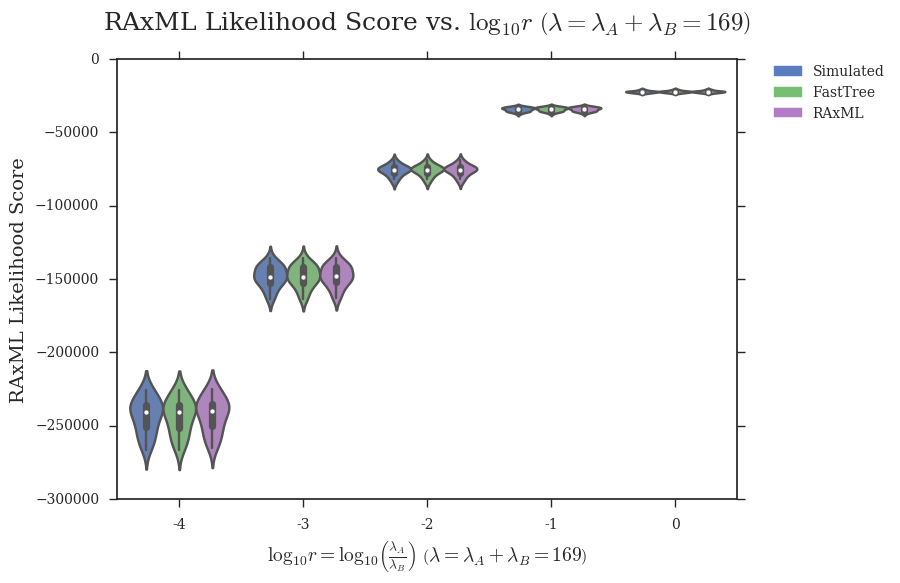
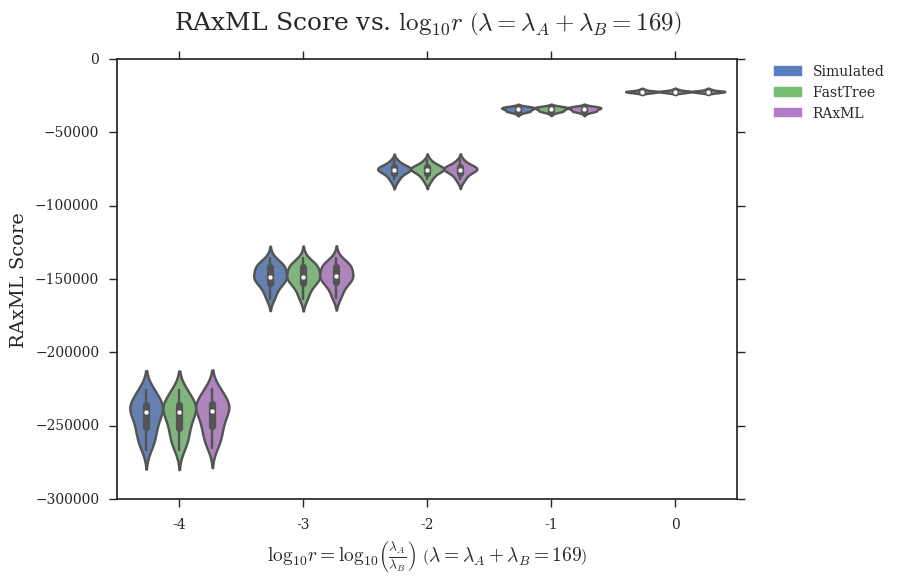
Changed "RAxML Likelihood Score" to "RAxML Score"

Changed region(s): [[0.0933, 0.0, 0.84, 0.0617], [0.0, 0.2779, 0.0311, 0.7101]]

diff --git a/figures/scripts/5_raxml-likelihood-vs-parameters.py b/figures/scripts/5_raxml-likelihood-vs-parameters.py
@@ -2,7 +2,7 @@
 '''
 Niema Moshiri 2016
 
-Generate plots of RAxML Likelihood Score vs. various parameters
+Generate plots of RAxML Score vs. various parameters
 '''
 # imports
 from matplotlib import rcParams
@@ -195,7 +195,7 @@ g_raxml    = {'gammarate':np.array([2.952]*20+[5.904]*20+[29.518]*20+[147.591]*2
              ).astype(float)}
 '''
 
-# plot RAxML Likelihood Score vs. r (with different lambda = lambdaA+lambdaB to keep expected branch length constant)
+# plot RAxML Score vs. r (with different lambda = lambdaA+lambdaB to keep expected branch length constant)
 fig = plt.figure()
 x = np.array([-4,-3,-2,-1,0])
 df = {'r':{},'score':{},'category':{}}
@@ -216,13 +216,13 @@ df = pd.DataFrame(df)
 ax = sns.violinplot(x='r',y='score',hue='category',data=df,order=x,palette=pal)
 legend = plt.legend(handles=handles,bbox_to_anchor=(1.05, 1), loc=2, borderaxespad=0.)
 sns.plt.xlabel(r'$\log_{10}{r} = \log_{10}{\left(\frac{\lambda_A}{\lambda_B}\right)}\ \left(E(l_b)=0.298\right)$',fontsize=14)
-sns.plt.ylabel('RAxML Likelihood Score',fontsize=14)
-sns.plt.title(r'RAxML Likelihood Score vs. $\log_{10}{r}\ \left(E(l_b)=0.298\right)$',fontsize=18,y=1.05)
+sns.plt.ylabel('RAxML Score',fontsize=14)
+sns.plt.title(r'RAxML Score vs. $\log_{10}{r}\ \left(E(l_b)=0.298\right)$',fontsize=18,y=1.05)
 sns.plt.show()
 fig.savefig('raxml-likelihood_vs_r_const-exp-branch-length.png', bbox_inches='tight')
 plt.close()
 
-# plot RAxML Likelihood Score vs. r (with constant lambda = lambdaA + lambdaB)
+# plot RAxML Score vs. r (with constant lambda = lambdaA + lambdaB)
 fig = plt.figure()
 x = np.array([-4,-3,-2,-1,0])
 df = {'r':{},'score':{},'category':{}}
@@ -243,13 +243,13 @@ df = pd.DataFrame(df)
 ax = sns.violinplot(x='r',y='score',hue='category',data=df,order=x,palette=pal)
 legend = plt.legend(handles=handles,bbox_to_anchor=(1.05, 1), loc=2, borderaxespad=0.)
 sns.plt.xlabel(r'$\log_{10}{r} = \log_{10}{\left(\frac{\lambda_A}{\lambda_B}\right)}\ \left(\lambda = \lambda_A + \lambda_B = 169\right)$',fontsize=14)
-sns.plt.ylabel('RAxML Likelihood Score',fontsize=14)
-sns.plt.title(r'RAxML Likelihood Score vs. $\log_{10}{r}\ \left(\lambda=\lambda_A+\lambda_B=169\right)$',fontsize=18,y=1.05)
+sns.plt.ylabel('RAxML Score',fontsize=14)
+sns.plt.title(r'RAxML Score vs. $\log_{10}{r}\ \left(\lambda=\lambda_A+\lambda_B=169\right)$',fontsize=18,y=1.05)
 sns.plt.show()
 fig.savefig('raxml-likelihood_vs_r_const-lambda.png', bbox_inches='tight')
 plt.close()
 
-# plot RAxML Likelihood Score vs. lambda
+# plot RAxML Score vs. lambda
 fig = plt.figure()
 x = np.array([33.866,84.664,169.328,338.655,846.638])
 df = {'lambda':{},'score':{},'category':{}}
@@ -270,13 +270,13 @@ df = pd.DataFrame(df)
 ax = sns.violinplot(x='lambda',y='score',hue='category',data=df,order=x,palette=pal)
 legend = plt.legend(handles=handles,bbox_to_anchor=(1.05, 1), loc=2, borderaxespad=0.)
 sns.plt.xlabel(r'$\lambda = \lambda_A + \lambda_B$',fontsize=14)
-sns.plt.ylabel('RAxML Likelihood Score',fontsize=14)
-sns.plt.title(r'RAxML Likelihood Score vs. $\lambda$',fontsize=18,y=1.05)
+sns.plt.ylabel('RAxML Score',fontsize=14)
+sns.plt.title(r'RAxML Score vs. $\lambda$',fontsize=18,y=1.05)
 sns.plt.show()
 fig.savefig('raxml-likelihood_vs_lambda.png', bbox_inches='tight')
 plt.close()
 
-# plot RAxML Likelihood Score vs. length
+# plot RAxML Score vs. length
 fig = plt.figure()
 x = np.array([50,100,200,300,600,1200,2400,4800])
 df = {'length':{},'score':{},'category':{}}
@@ -297,13 +297,13 @@ df = pd.DataFrame(df)
 ax = sns.violinplot(x='length',y='score',hue='category',data=df,order=x,palette=pal)
 legend = plt.legend(handles=handles,bbox_to_anchor=(1.05, 1), loc=2, borderaxespad=0.)
 sns.plt.xlabel('Sequence Length',fontsize=14)
-sns.plt.ylabel('RAxML Likelihood Score',fontsize=14)
-sns.plt.title('RAxML Likelihood Score vs. Sequence Length',fontsize=18,y=1.05)
+sns.plt.ylabel('RAxML Score',fontsize=14)
+sns.plt.title('RAxML Score vs. Sequence Length',fontsize=18,y=1.05)
 sns.plt.show()
 fig.savefig('raxml-likelihood_vs_length.png', bbox_inches='tight')
 plt.close()
 
-# plot RAxML Likelihood Score vs. gamma rate
+# plot RAxML Score vs. gamma rate
 fig = plt.figure()
 x = np.array([2.952,5.904,29.518,147.591,295.182,float('inf')])
 df = {'gammarate':{},'score':{},'category':{}}
@@ -324,8 +324,8 @@ df = pd.DataFrame(df)
 ax = sns.violinplot(x='gammarate',y='score',hue='category',data=df,order=x,palette=pal)
 legend = plt.legend(handles=handles,bbox_to_anchor=(1.05, 1), loc=2, borderaxespad=0.)
 sns.plt.xlabel(r'Gamma Distribution Rate $\left(\alpha\right)$',fontsize=14)
-sns.plt.ylabel('RAxML Likelihood Score',fontsize=14)
-sns.plt.title('RAxML Likelihood Score vs. Deviation from Ultrametricity',fontsize=18,y=1.05)
+sns.plt.ylabel('RAxML Score',fontsize=14)
+sns.plt.title('RAxML Score vs. Deviation from Ultrametricity',fontsize=18,y=1.05)
 sns.plt.show()
 fig.savefig('raxml-likelihood_vs_gammarate.png', bbox_inches='tight')
 plt.close()
